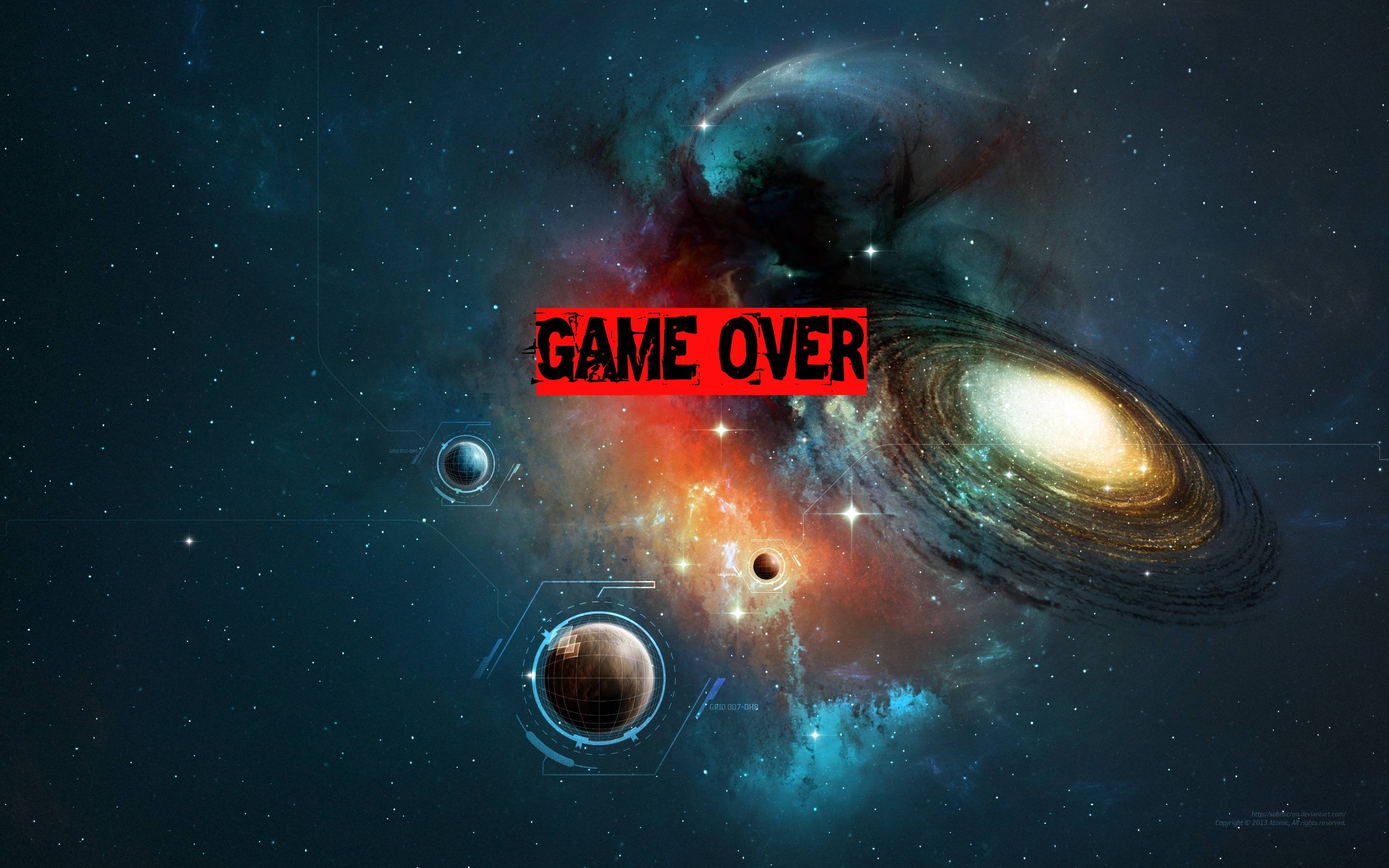
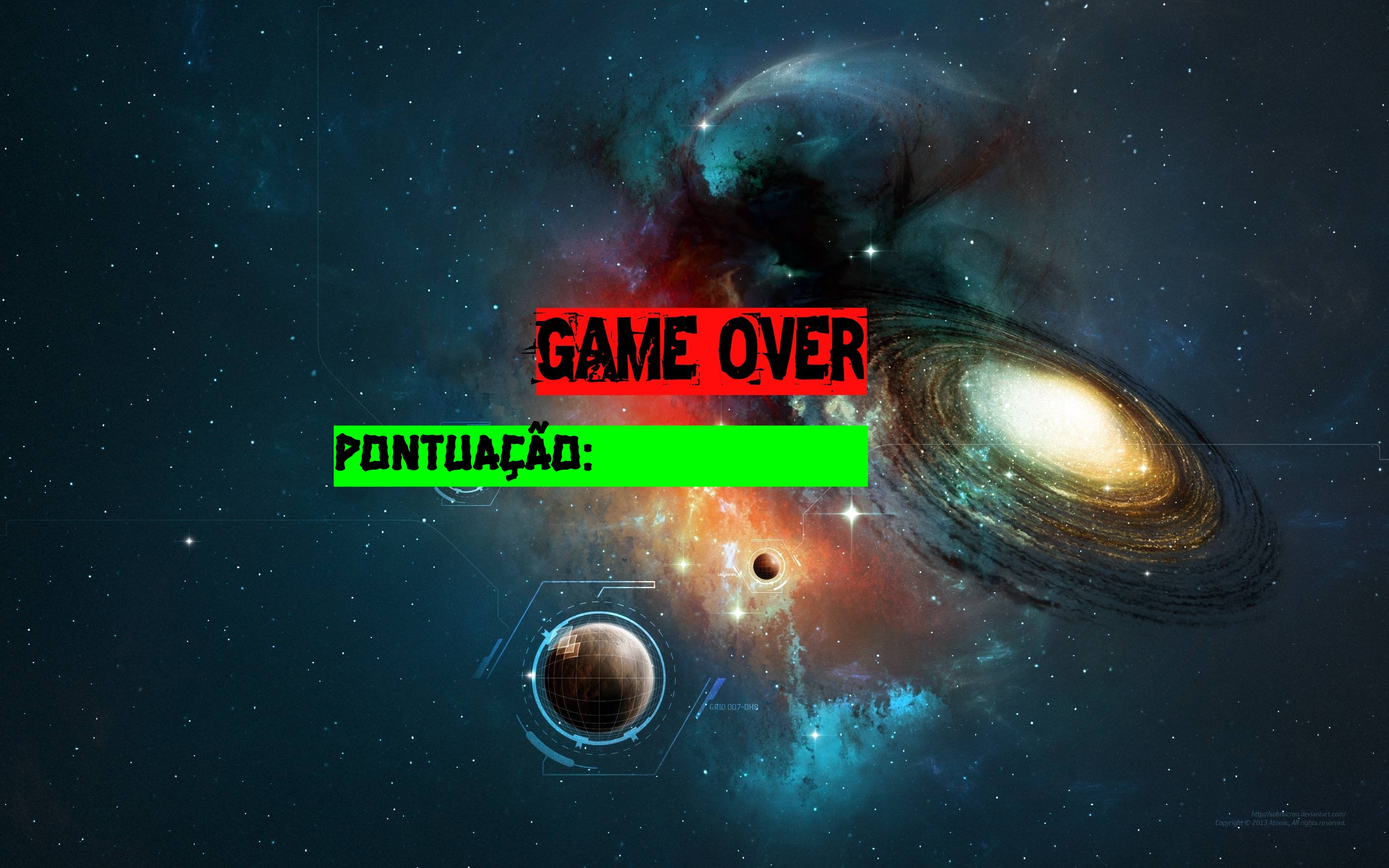
porta

Changed region(s): [[0.2188, 0.4667, 0.625, 0.56]]

diff --git a/src/scenes/gameOverScene.ts b/src/scenes/gameOverScene.ts
@@ -12,10 +12,7 @@ export default class GameOver extends Phaser.Scene {
     this.level = level
     this.points = points
   }
-  preload() {
-
-
-  }
+  preload() {}
 
   create() {
     const map = new Map(0)
@@ -30,11 +27,11 @@ export default class GameOver extends Phaser.Scene {
     let image = this.add.image(80, 0, 'game-over').setOrigin(0, 0)
     image.setScale(0.5)
     const screenCenterX = this.cameras.main.worldView.x + this.cameras.main.width / 2
-    const screenCenterY = this.cameras.main.worldView.y + 100 + this.cameras.main.height / 2
+    const screenCenterY = this.cameras.main.worldView.y + 75 + this.cameras.main.height / 2
     const loadingText = this.add
-      .text(screenCenterX, screenCenterY, `PONTUAÇÃO: ${this.points}`, {
+      .text(screenCenterX, screenCenterY, `${this.points}`, {
         color: '#111',
-        fontSize: '150px',
+        fontSize: '40px',
         fontWeight: 'bold',
         letterSpacing: ' -1px',
         lineheight: 1,

diff --git a/src/scenes/preloadScene.ts b/src/scenes/preloadScene.ts
@@ -21,7 +21,7 @@ export default class PreloadScene extends Phaser.Scene {
       'bg-person',
       'arrow-left',
       'home',
-      'game-over'
+      'game-over',
     ]
     images.forEach((img) => {
       this.load.image(img, `assets/img/${img}.png`)
@@ -31,8 +31,8 @@ export default class PreloadScene extends Phaser.Scene {
     this.load.spritesheet('bee', 'assets/img/bee.png', { frameHeight: 100, frameWidth: 128 })
     this.load.spritesheet('slime', 'assets/img/slime.png', { frameHeight: 68, frameWidth: 112 })
     this.load.setPath('assets/spine')
-  this.load.audio("jump","assets/audio/colectCoin.wav");
-  this.load.audio("gameOver","assets/audio/gameOver.wav");
+    this.load.audio('jump', 'assets/audio/colectCoin.wav')
+    this.load.audio('gameOver', 'assets/audio/gameOver.wav')
 
     // @ts-ignore
     this.load.spine('boy', 'boy.json', 'boy.atlas')

diff --git a/src/scenes/mainScene.ts b/src/scenes/mainScene.ts
@@ -161,13 +161,6 @@ export default class MainScene extends Phaser.Scene {
   }
 
   update() {
-    if (
-      (this.cursors.up?.isDown || this.cursors.space?.isDown || this.controls.upIsDown) &&
-      this.player.body.blocked.down
-    ) {
-      const endGameSound = this.sound.add('jump')
-      endGameSound.play()
-    }
     this.background.parallax()
     this.controls.update()
     this.enemiesGroup.update()
